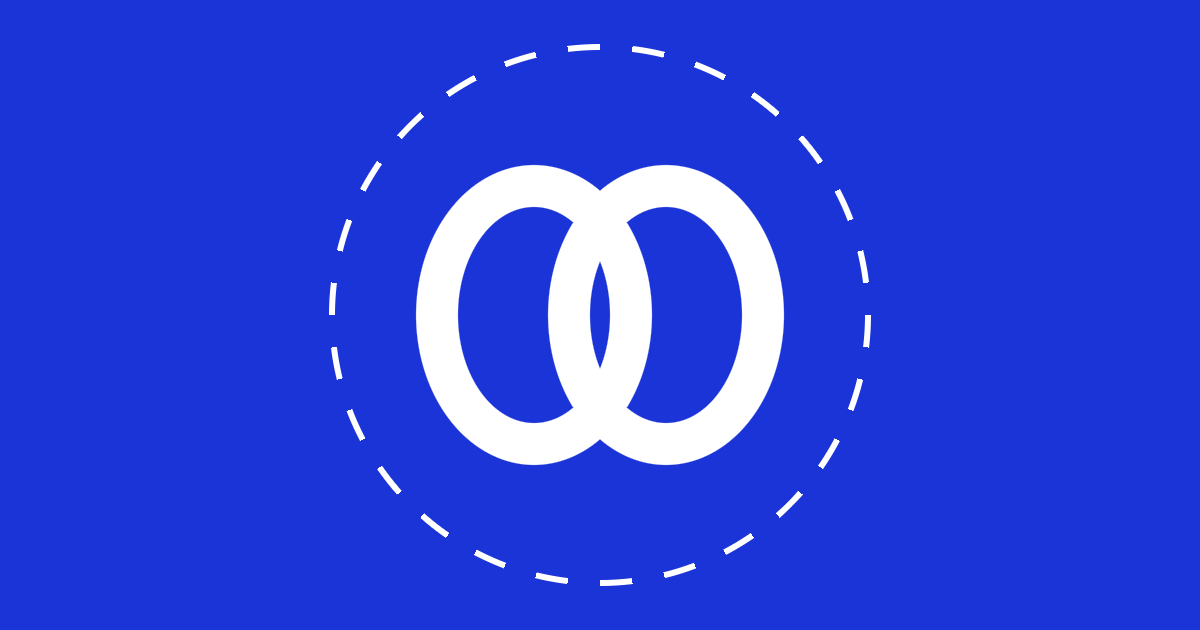
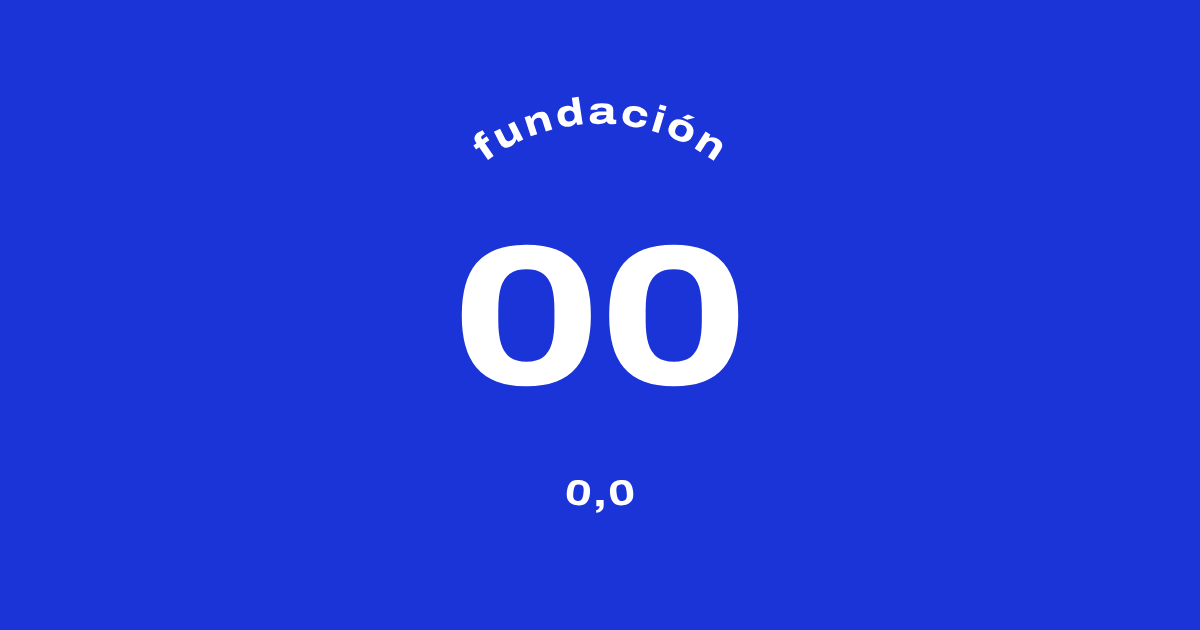
Logotipo definitivo: chapa con los ceros separados
Los dos ceros vuelven a ser tipograficos y separados. En pantallas
pequenas la chapa lleva el anillo de puntos; la version con "fundacion"
y "0,0" rodeando el 00 se reserva para tamanos grandes.
Actualiza favicon, icono de movil e imagen para compartir.

diff --git a/index.html b/index.html
@@ -425,10 +425,10 @@ footer{border-top:1.5px solid var(--hair);padding-block:clamp(2.5rem,5vw,4rem)}
     <a class="brand" href="#top">
       <svg width="30" height="30" viewBox="0 0 200 200" aria-hidden="true">
         <circle cx="100" cy="100" r="94" fill="#1B34D8"/>
-        <circle cx="100" cy="100" r="80" fill="none" stroke="#FFFFFF" stroke-width="6" stroke-dasharray="14 14"/>
-        <g fill="none" stroke="#FFFFFF" stroke-width="18">
-          <ellipse cx="70" cy="100" rx="21" ry="32"/>
-          <ellipse cx="130" cy="100" rx="21" ry="32"/>
+        <circle cx="100" cy="100" r="78" fill="none" stroke="#FFFFFF" stroke-width="6" stroke-dasharray="9.42 9.42"/>
+        <g fill="#FFFFFF" transform="translate(37.756 130)">
+        <path transform="translate(0.000 0) scale(0.084000 -0.084000)" d="M371.08216774463654 -12Q281.9642217159271 -12 219.86488556861877 11.918920576572418Q157.76554942131042 35.837841153144836 119.39453560113907 81.84115010499954Q81.02352178096771 127.84445905685425 63.559250593185425 193.69670748710632Q46.09497940540314 259.5489559173584 46.09497940540314 343.8721545934677Q46.09497940540314 428.195353269577 63.559250593185425 494.0476016998291Q81.02352178096771 559.8998501300812 119.03455024957657 605.738810300827Q157.04557871818542 651.5777704715729 219.14491486549377 675.4966910481453Q281.2442510128021 699.4156116247177 370.36219704151154 699.4156116247177Q459.63232696056366 699.4156116247177 521.5916484594345 675.4966910481453Q583.5509699583054 651.5777704715729 621.8458918333054 605.738810300827Q660.1408137083054 559.8998501300812 677.6050848960876 494.0476016998291Q695.0693560838699 428.195353269577 695.0693560838699 343.8721545934677Q695.0693560838699 259.5489559173584 677.6050848960876 193.69670748710632Q660.1408137083054 127.84445905685425 622.2058771848679 81.84115010499954Q584.2709406614304 35.837841153144836 522.3116191625595 11.918920576572418Q460.35229766368866 -12 371.08216774463654 -12ZM371.08216774463654 111.66951787471771Q424.0663073062897 111.66951787471771 454.7613596320152 134.26740956306458Q485.4564119577408 156.86530125141144 498.68893551826477 202.52845406532288Q511.92145907878876 248.1916068792343 511.92145907878876 317.32481467723846V371.5628137588501Q511.92145907878876 441.10389626026154 498.68893551826477 486.4588171839714Q485.4564119577408 531.8137381076813 454.7613596320152 553.9755524992943Q424.0663073062897 576.1373668909073 371.08216774463654 576.1373668909073Q318.9458442926407 576.1373668909073 287.76296120882034 553.9755524992943Q256.580078125 531.8137381076813 243.075826048851 486.5866625905037Q229.57157397270203 441.3595870733261 229.57157397270203 371.94634997844696V317.7083508968353Q229.57157397270203 248.4472976922989 243.075826048851 202.65629947185516Q256.580078125 156.86530125141144 287.76296120882034 134.26740956306458Q318.9458442926407 111.66951787471771 371.08216774463654 111.66951787471771Z"/>
+        <path transform="translate(62.244 0) scale(0.084000 -0.084000)" d="M371.08216774463654 -12Q281.9642217159271 -12 219.86488556861877 11.918920576572418Q157.76554942131042 35.837841153144836 119.39453560113907 81.84115010499954Q81.02352178096771 127.84445905685425 63.559250593185425 193.69670748710632Q46.09497940540314 259.5489559173584 46.09497940540314 343.8721545934677Q46.09497940540314 428.195353269577 63.559250593185425 494.0476016998291Q81.02352178096771 559.8998501300812 119.03455024957657 605.738810300827Q157.04557871818542 651.5777704715729 219.14491486549377 675.4966910481453Q281.2442510128021 699.4156116247177 370.36219704151154 699.4156116247177Q459.63232696056366 699.4156116247177 521.5916484594345 675.4966910481453Q583.5509699583054 651.5777704715729 621.8458918333054 605.738810300827Q660.1408137083054 559.8998501300812 677.6050848960876 494.0476016998291Q695.0693560838699 428.195353269577 695.0693560838699 343.8721545934677Q695.0693560838699 259.5489559173584 677.6050848960876 193.69670748710632Q660.1408137083054 127.84445905685425 622.2058771848679 81.84115010499954Q584.2709406614304 35.837841153144836 522.3116191625595 11.918920576572418Q460.35229766368866 -12 371.08216774463654 -12ZM371.08216774463654 111.66951787471771Q424.0663073062897 111.66951787471771 454.7613596320152 134.26740956306458Q485.4564119577408 156.86530125141144 498.68893551826477 202.52845406532288Q511.92145907878876 248.1916068792343 511.92145907878876 317.32481467723846V371.5628137588501Q511.92145907878876 441.10389626026154 498.68893551826477 486.4588171839714Q485.4564119577408 531.8137381076813 454.7613596320152 553.9755524992943Q424.0663073062897 576.1373668909073 371.08216774463654 576.1373668909073Q318.9458442926407 576.1373668909073 287.76296120882034 553.9755524992943Q256.580078125 531.8137381076813 243.075826048851 486.5866625905037Q229.57157397270203 441.3595870733261 229.57157397270203 371.94634997844696V317.7083508968353Q229.57157397270203 248.4472976922989 243.075826048851 202.65629947185516Q256.580078125 156.86530125141144 287.76296120882034 134.26740956306458Q318.9458442926407 111.66951787471771 371.08216774463654 111.66951787471771Z"/>
         </g>
       </svg>
       <span class="brand-name">Fundación 00</span>
@@ -805,10 +805,10 @@ footer{border-top:1.5px solid var(--hair);padding-block:clamp(2.5rem,5vw,4rem)}
         <a class="brand" href="#top" style="margin-bottom:.9rem">
           <svg width="30" height="30" viewBox="0 0 200 200" aria-hidden="true">
             <circle cx="100" cy="100" r="94" fill="#1B34D8"/>
-            <circle cx="100" cy="100" r="80" fill="none" stroke="#FFFFFF" stroke-width="6" stroke-dasharray="14 14"/>
-            <g fill="none" stroke="#FFFFFF" stroke-width="18">
-              <ellipse cx="70" cy="100" rx="21" ry="32"/>
-              <ellipse cx="130" cy="100" rx="21" ry="32"/>
+            <circle cx="100" cy="100" r="78" fill="none" stroke="#FFFFFF" stroke-width="6" stroke-dasharray="9.42 9.42"/>
+            <g fill="#FFFFFF" transform="translate(37.756 130)">
+            <path transform="translate(0.000 0) scale(0.084000 -0.084000)" d="M371.08216774463654 -12Q281.9642217159271 -12 219.86488556861877 11.918920576572418Q157.76554942131042 35.837841153144836 119.39453560113907 81.84115010499954Q81.02352178096771 127.84445905685425 63.559250593185425 193.69670748710632Q46.09497940540314 259.5489559173584 46.09497940540314 343.8721545934677Q46.09497940540314 428.195353269577 63.559250593185425 494.0476016998291Q81.02352178096771 559.8998501300812 119.03455024957657 605.738810300827Q157.04557871818542 651.5777704715729 219.14491486549377 675.4966910481453Q281.2442510128021 699.4156116247177 370.36219704151154 699.4156116247177Q459.63232696056366 699.4156116247177 521.5916484594345 675.4966910481453Q583.5509699583054 651.5777704715729 621.8458918333054 605.738810300827Q660.1408137083054 559.8998501300812 677.6050848960876 494.0476016998291Q695.0693560838699 428.195353269577 695.0693560838699 343.8721545934677Q695.0693560838699 259.5489559173584 677.6050848960876 193.69670748710632Q660.1408137083054 127.84445905685425 622.2058771848679 81.84115010499954Q584.2709406614304 35.837841153144836 522.3116191625595 11.918920576572418Q460.35229766368866 -12 371.08216774463654 -12ZM371.08216774463654 111.66951787471771Q424.0663073062897 111.66951787471771 454.7613596320152 134.26740956306458Q485.4564119577408 156.86530125141144 498.68893551826477 202.52845406532288Q511.92145907878876 248.1916068792343 511.92145907878876 317.32481467723846V371.5628137588501Q511.92145907878876 441.10389626026154 498.68893551826477 486.4588171839714Q485.4564119577408 531.8137381076813 454.7613596320152 553.9755524992943Q424.0663073062897 576.1373668909073 371.08216774463654 576.1373668909073Q318.9458442926407 576.1373668909073 287.76296120882034 553.9755524992943Q256.580078125 531.8137381076813 243.075826048851 486.5866625905037Q229.57157397270203 441.3595870733261 229.57157397270203 371.94634997844696V317.7083508968353Q229.57157397270203 248.4472976922989 243.075826048851 202.65629947185516Q256.580078125 156.86530125141144 287.76296120882034 134.26740956306458Q318.9458442926407 111.66951787471771 371.08216774463654 111.66951787471771Z"/>
+            <path transform="translate(62.244 0) scale(0.084000 -0.084000)" d="M371.08216774463654 -12Q281.9642217159271 -12 219.86488556861877 11.918920576572418Q157.76554942131042 35.837841153144836 119.39453560113907 81.84115010499954Q81.02352178096771 127.84445905685425 63.559250593185425 193.69670748710632Q46.09497940540314 259.5489559173584 46.09497940540314 343.8721545934677Q46.09497940540314 428.195353269577 63.559250593185425 494.0476016998291Q81.02352178096771 559.8998501300812 119.03455024957657 605.738810300827Q157.04557871818542 651.5777704715729 219.14491486549377 675.4966910481453Q281.2442510128021 699.4156116247177 370.36219704151154 699.4156116247177Q459.63232696056366 699.4156116247177 521.5916484594345 675.4966910481453Q583.5509699583054 651.5777704715729 621.8458918333054 605.738810300827Q660.1408137083054 559.8998501300812 677.6050848960876 494.0476016998291Q695.0693560838699 428.195353269577 695.0693560838699 343.8721545934677Q695.0693560838699 259.5489559173584 677.6050848960876 193.69670748710632Q660.1408137083054 127.84445905685425 622.2058771848679 81.84115010499954Q584.2709406614304 35.837841153144836 522.3116191625595 11.918920576572418Q460.35229766368866 -12 371.08216774463654 -12ZM371.08216774463654 111.66951787471771Q424.0663073062897 111.66951787471771 454.7613596320152 134.26740956306458Q485.4564119577408 156.86530125141144 498.68893551826477 202.52845406532288Q511.92145907878876 248.1916068792343 511.92145907878876 317.32481467723846V371.5628137588501Q511.92145907878876 441.10389626026154 498.68893551826477 486.4588171839714Q485.4564119577408 531.8137381076813 454.7613596320152 553.9755524992943Q424.0663073062897 576.1373668909073 371.08216774463654 576.1373668909073Q318.9458442926407 576.1373668909073 287.76296120882034 553.9755524992943Q256.580078125 531.8137381076813 243.075826048851 486.5866625905037Q229.57157397270203 441.3595870733261 229.57157397270203 371.94634997844696V317.7083508968353Q229.57157397270203 248.4472976922989 243.075826048851 202.65629947185516Q256.580078125 156.86530125141144 287.76296120882034 134.26740956306458Q318.9458442926407 111.66951787471771 371.08216774463654 111.66951787471771Z"/>
             </g>
           </svg>
           <span class="brand-name">Fundación 00</span>
